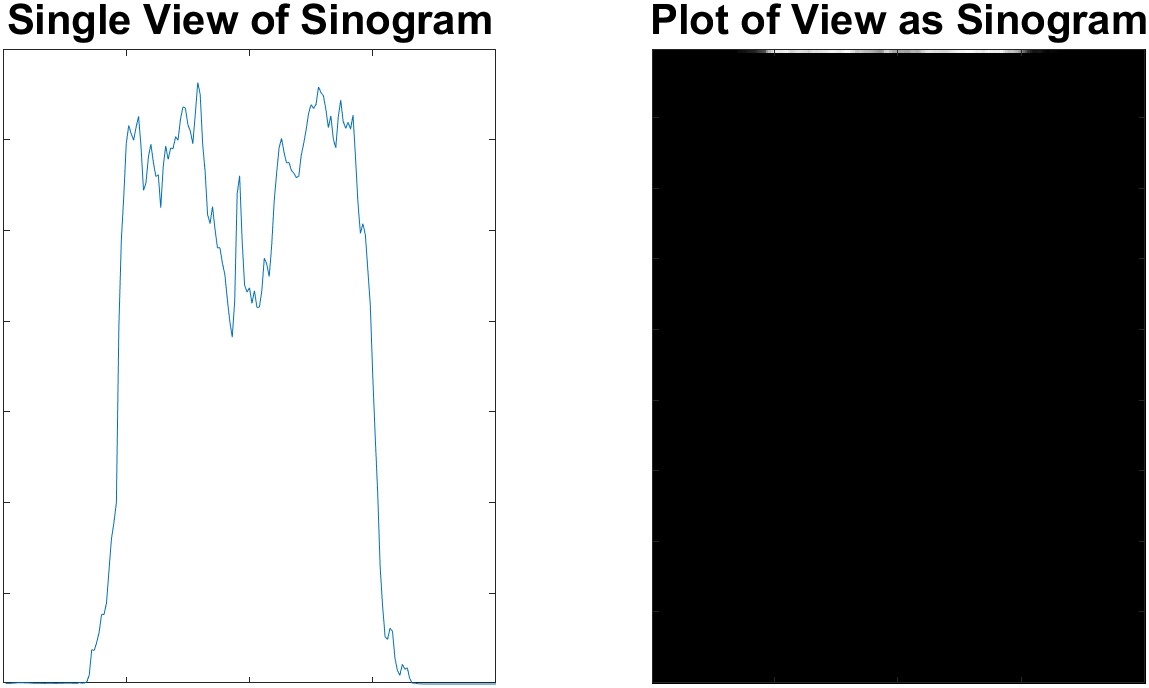
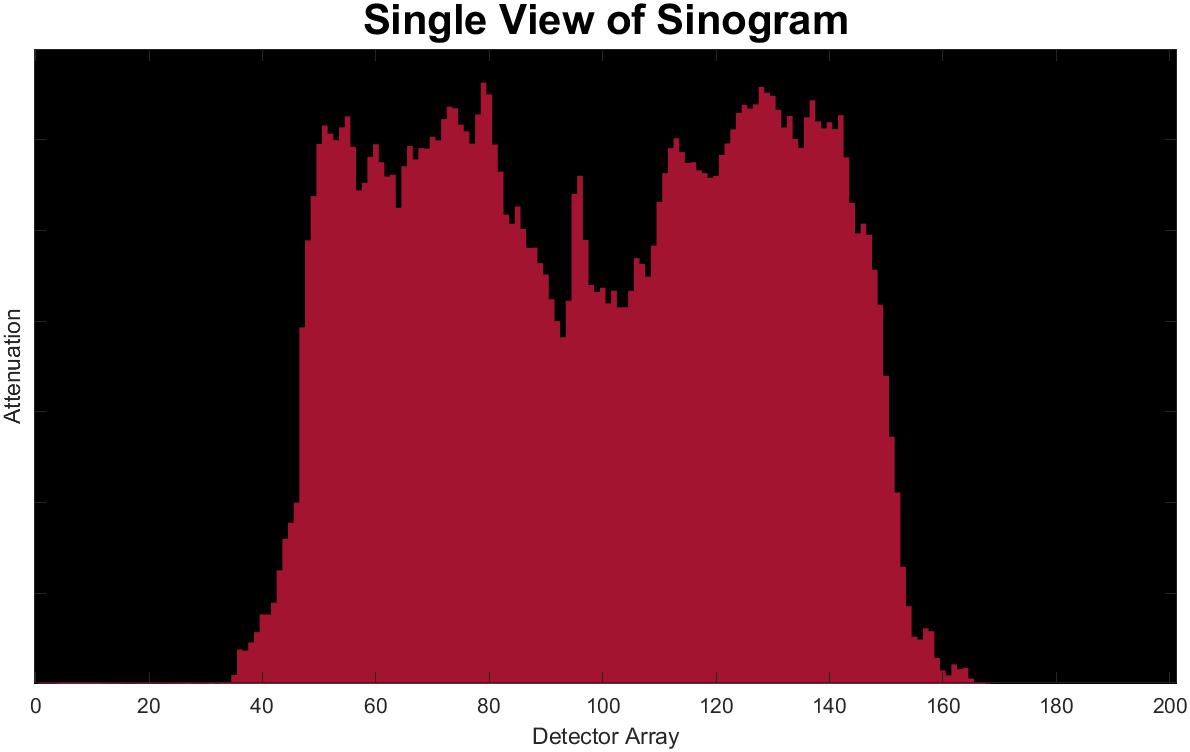
updated formating

diff --git a/1_ct_simulation/ct_simulation.m b/1_ct_simulation/ct_simulation.m
@@ -74,6 +74,8 @@ angles_deg = linspace(0,358,180);
 sino = load('figures/head_sinogram.mat');
 sinogram = sino.sino;
 
+
+
 % Reset Machine Properties for actual Simulation
 n_dexel = 200;
 detector_size_mm = 440;
@@ -88,23 +90,30 @@ image = image / max(max(image));
 image = image * 0.4;
 
 % Create a single view of the sinogram
-p = view(image, FCD_mm, DCD_mm, angles_deg(1), n_dexel, dexel_size_mm, pixel_size_mm);
+p = sim_view(image, FCD_mm, DCD_mm, angles_deg(1), n_dexel, dexel_size_mm, pixel_size_mm);
 
 fig = figure('units','normalized','outerposition',[0 0 .5 .55]);
-subplot(1,2,1)
-plot(p)
-set(gca,'xticklabel',[], 'yticklabel', [])
+set(fig,'defaultfigurecolor',[0 0 0])
+
+% subplot(1,2,1)
+bar(p,'BarWidth', 1, FaceColor=[0.6350 0.0780 0.1840])
+set(gca, 'yticklabel', [])
+xlabel("Detector Array")
+ylabel("Attenuation")
 title('Single View of Sinogram',FontSize=20)
-subplot(1,2,2)
-plt_sino = zeros(size(sinogram,1),size(sinogram,2));
-plt_sino(1,:) = sinogram(1,:);
-imagesc(plt_sino)
-colormap gray(256)
-set(gca,'xticklabel',[], 'yticklabel', [])
-title('Plot of View as Sinogram',FontSize=20)
+set(gca,'Color','k')
+ax = gca;
+ax.GridColor = [0.9, 0.9, 0.9];
+% subplot(1,2,2)
+% plt_sino = zeros(size(sinogram,1),size(sinogram,2));
+% plt_sino(1,:) = sinogram(1,:);
+% imagesc(plt_sino)
+% colormap gray(256)
+% set(gca,'xticklabel',[], 'yticklabel', [])
+% title('Plot of View as Sinogram',FontSize=20)
 file_name = "figures/sino_view.png";
 exportgraphics(fig, file_name); % save figure
-close(fig)
+% close(fig)
 
 %% Part 3 - Simulation
 

diff --git a/1_ct_simulation/simulation.m b/1_ct_simulation/simulation.m
@@ -20,7 +20,7 @@ sinogram = zeros(n_angles,n_dexel);
 
 % loop over all angles and create sinogram matrix
 for i = 1:n_angles
-    sinogram(i,:) = view(image_data, FCD_mm, DCD_mm, angles_deg(i), ...
+    sinogram(i,:) = sim_view(image_data, FCD_mm, DCD_mm, angles_deg(i), ...
                        n_dexel, dexel_size_mm, pixel_size_mm);
 end
 
